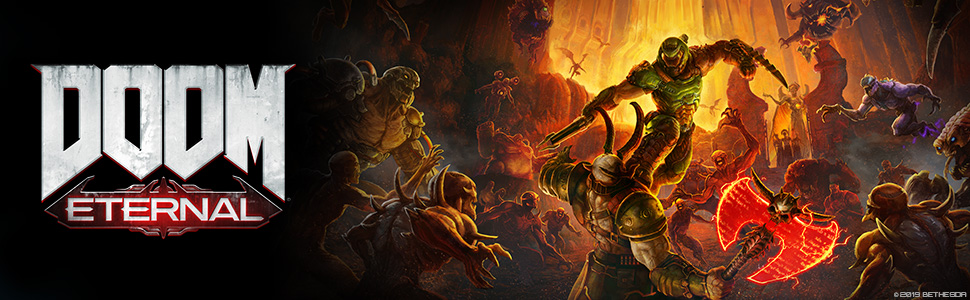
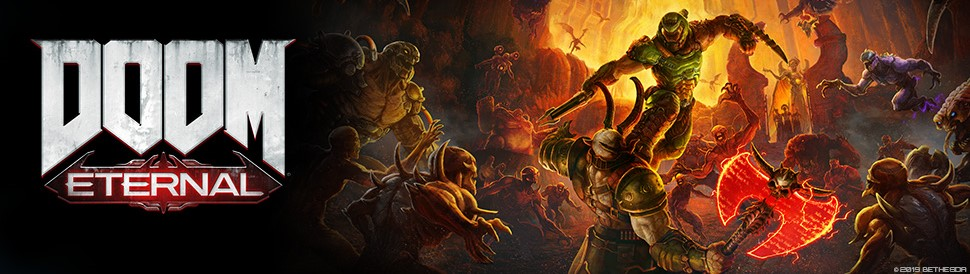
last push day

diff --git a/doom.html b/doom.html
@@ -5,6 +5,8 @@
     <meta charset="UTF-8">
     <meta name="viewport" content="width=device-width, initial-scale=1.0">
     <link rel="stylesheet" href="style.css">
+    <link href="https://fonts.googleapis.com/css?family=Roboto&display=swap" rel="stylesheet">
+    <script src="https://kit.fontawesome.com/a076d05399.js"></script>
     <title>Document</title>
 </head>
 
@@ -49,8 +51,8 @@
         <main>
             <section id="firstSec">
 
-                <article>
-                    <h2>Why choose us?</h2>
+                <article id="Why">
+                    <h2>Why choose this game?</h2>
                     <p>
                         <span class="gras">>Lorem, ipsum dolor sit amet consectetur adipisicing elit. Nobis quisquam
                             voluptatibus sequi saepe ipsam</span>
@@ -61,13 +63,66 @@
                     </p>
                 </article>
 
-                <article>
+                <article id="">
                     <h2>What you get?</h2>
+                    <ul>
+                        <li>
+                          <i class="fab fa-wordpress fa-3x"></i>
+                          <div class="margeliste">
+                            <h4>COLORFUL & COMPACT</h4>
+                            <p>Portfoli WordPress Theme</p>
+                          </div>
+                        </li>
+                        <li>
+                          <i class="fas fa-cog fa-3x"></i>
+                          <div class="margeliste">
+                            <h4>VERY EASY TO USE</h4>
+                            <p>Page Builder & Shortcodes</p>
+                          </div>
+                        </li>
+                        <li>
+                          <i class="far fa-paper-plane fa-3x"></i>
+                          <div class="margeliste">
+                            <h4>CODED WITH SASS</h4>
+                            <p>Create Custom Skins in Minutes</p>
+                          </div>
+                        </li>
+                      </ul>
                 </article>
 
-                <article>
-
-                </article>
+                <div id="accordéon">
+                    <div class="tab">
+                      <input type="radio" id="tab-1" name="tab" />
+                      <label for="tab-1">NULLA CONSEQUAT MASSA</label>
+                      <div class="tab-content">
+                        <p>
+                          Lorem ipsum dolor sit amet consectetur adipisicing elit. Iure
+                          in voluptas voluptates veniam facilis totam voluptatum eaque.
+                        </p>
+                      </div>
+                    </div>
+                    <div class="tab">
+                      <input type="radio" id="tab-2" name="tab" />
+                      <label for="tab-2">VIVAMUS ELEMENTUM SEMPER</label>
+                      <div class="tab-content">
+                        <p>
+                          Lorem ipsum dolor sit amet consectetur adipisicing elit.
+                          Sapiente laboriosam quas esse expedita sint neque doloribus
+                          nam asperiores, officia veniam ullam quis et?
+                        </p>
+                      </div>
+                    </div>
+                    <div class="tab">
+                      <input type="radio" id="tab-3" name="tab" />
+                      <label for="tab-3">ETIAM ULTRICES NISI VEL</label>
+                      <div class="tab-content">
+                        <p>
+                          Lorem, ipsum dolor sit amet consectetur adipisicing elit. Sint
+                          officia excepturi, voluptate incidunt eius.
+                        </p>
+                      </div>
+                    </div>
+                  </div>
             </section>
 
             <section class="galerie" >
@@ -87,25 +142,45 @@
             </section>
 
             <section>
-                <h2>TESTIMONIALS</h2>
+                <h2 class="centerTitre">TESTIMONIALS</h2>
+                <div>
+                        <p>Lorem ipsum dolor sit, amet consectetur adipisicing elit. Aliquid quae dolores similique, sed ducimus vero, molestias vitae dolorum beatae illo eius accusamus maiores expedita illum, earum rem pariatur id ea?</p>
+                </div>
+                <div>
+                    <p>Lorem ipsum dolor sit, amet consectetur adipisicing elit. Aliquid quae dolores similique, sed ducimus vero, molestias vitae dolorum beatae illo eius accusamus maiores expedita illum, earum rem pariatur id ea?</p>
+
+                </div>
+                <div>
+                    <p>Lorem ipsum dolor sit, amet consectetur adipisicing elit. Aliquid quae dolores similique, sed ducimus vero, molestias vitae dolorum beatae illo eius accusamus maiores expedita illum, earum rem pariatur id ea?</p>
+
+                </div>
             </section>
 
             <section>
-                <h>NEW HORIZONS AWAIT</h1>
+                <h2 class="centerTitre">NEW HORIZONS AWAIT</h2>
             </section>
            
             <section>
                 <h1>CONTACT</h1>
                 <form action="">
-                    
-                    <input type="text" name="" id="">
-                    <input type="email" name="">
+                        <label for="nom">your names</label>
+                    <input type="text" name="nom" id="">
+                    <label for="email">your mail</label>
+                    <input type="email" name="email">
                 </form>
             </section>
         </main>
 
         <footer>
-
+            <section>
+                <h3>about bethesda</h3>
+            </section>
+            <section>
+                <h3>newsletter</h3>
+            </section>
+            <section>
+                <h3>twitte feed</h3>
+            </section>
 
         </footer>
     </div>

diff --git a/style.css b/style.css
@@ -3,7 +3,10 @@
     box-sizing: border-box;
 }
 body{
-    margin: 0;
+    width: 100%;
+    min-height: 100%;
+    font-family: 'roboto', sans-serif ;
+    font-size: 16px;
 }
 
 #wrapper{
@@ -11,6 +14,10 @@ body{
     margin: auto;
 }
 
+a{
+	text-decoration: none;
+	color: inherit;
+}
 
 nav { 
     display: flex;
@@ -40,12 +47,16 @@ nav {
     padding-left:  150px;
     padding-right:  150px;
     background-image: url(./images/baniere.jpg)  ; 
+    background-size: 1024px 300px;
     color: white;
 }
 
 h1{
   text-align: center;
     }
+.centerTitre{
+    text-align: center;
+}
 .center{
     display: block;
     text-align: center;
@@ -60,6 +71,33 @@ h1{
         text-decoration: none;
         border: 1px white solid;
         
+}
+#Why{
+    width: 25%;
+}
+ul {
+    list-style-type: none;
+    padding: 0px;
+}
+li{ 
+    display: flex;
+    justify-content: flex-start;
+}
+#firstSec article i{
+    display: flex;
+    align-items: center;
+}
+#firstSec #accordéon {
+    width: 50%;
+    padding-top: 1.6em;
+}
+.margeliste{
+    margin-left: 1em;
+}
+footer{
+    background-color: black;
+    color: white;
+    display: flex;
 }
 /* .gras{
 
